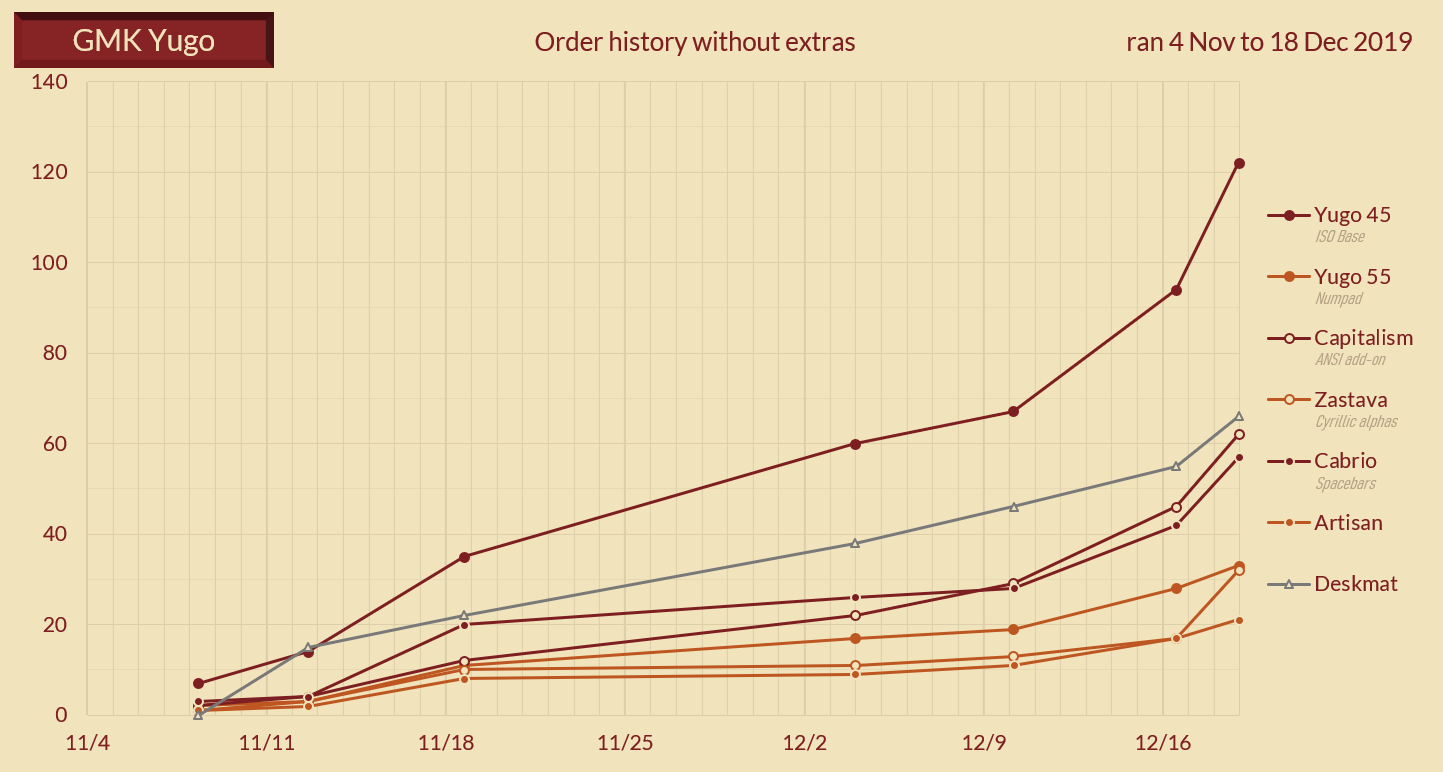
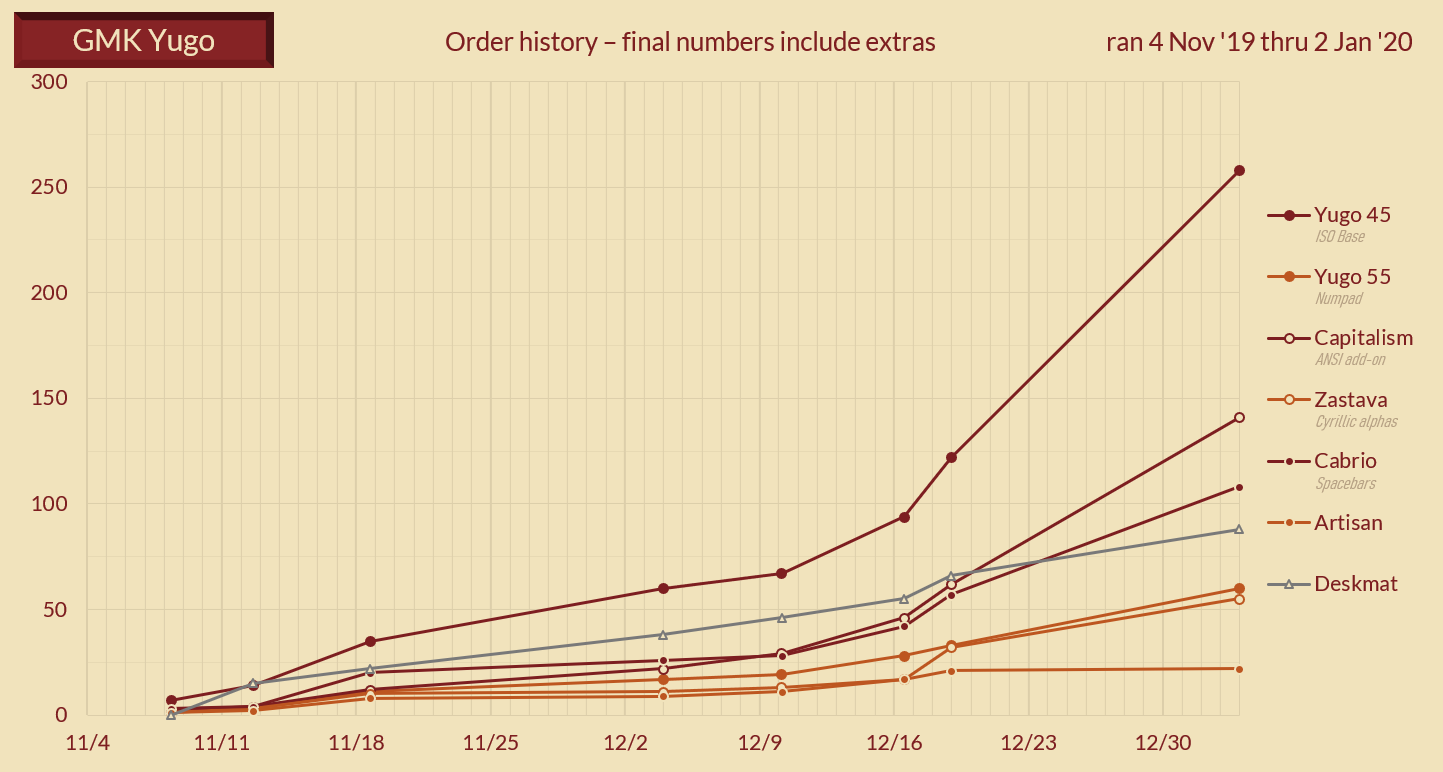
There are 3 files have been modified at 2020-01-22 01:30:40 . 	-rw-r--r-- 1 jzou ops 157288 Jan 22 01:29 assets/images/gmk-keycaps/yugo/history.png 	-rw-r--r-- 1 jzou ops 52106 Jan 22 01:27 assets/images/gmk-keycaps/yugo/order.png 	-rw-r--r-- 1 jzou ops 2431 Jan 22 01:30 docs/gmk-keycaps/Yugo.md No 

diff --git a/docs/gmk-keycaps/Yugo.md b/docs/gmk-keycaps/Yugo.md
@@ -21,34 +21,34 @@ NOTE: USD to CNY exchange rate is 7.03
 
 | Name          | Price(GH)    |  Price(CNY) | Quantity |
 | ------------- | ------------ |  ---------- | -------- |
-|[Yugo 45](#yugo-45)|119.99|843.53|122|
-|[Capitalism](#capitalism)|29.99|210.83|62|
-|[Yugo 55](#yugo-55)|49.99|351.43|33|
-|[Cabrio](#cabrio)|34.99|245.98|57|
-|[Zastava](#zastava)|59.99|421.73|32|
+|[Yugo 45](#yugo-45)|119.99|843.53|258|
+|[Capitalism](#capitalism)|29.99|210.83|141|
+|[Yugo 55](#yugo-55)|49.99|351.43|60|
+|[Cabrio](#cabrio)|34.99|245.98|108|
+|[Zastava](#zastava)|59.99|421.73|55|
 
 <img src="{{ 'assets/images/gmk-keycaps/yugo/history.png' | relative_url }}" alt="history" class="image featured">
 <img src="{{ 'assets/images/gmk-keycaps/yugo/order.png' | relative_url }}" alt="order" class="image featured">
 
 ## Kits  
 ### Yugo 45  
-**Price(GH):** 119.99    **Price(CNY):** 843.53    **Quantity:** 122  
+**Price(GH):** 119.99    **Price(CNY):** 843.53    **Quantity:** 258  
 <img src="{{ 'assets/images/gmk-keycaps/yugo/kits_pics/yugo-45.png' | relative_url }}" alt="yugo-45" class="image featured">
 
 ### Capitalism  
-**Price(GH):** 29.99    **Price(CNY):** 210.83    **Quantity:** 62  
+**Price(GH):** 29.99    **Price(CNY):** 210.83    **Quantity:** 141  
 <img src="{{ 'assets/images/gmk-keycaps/yugo/kits_pics/capitalism.png' | relative_url }}" alt="capitalism" class="image featured">
 
 ### Yugo 55  
-**Price(GH):** 49.99    **Price(CNY):** 351.43    **Quantity:** 33  
+**Price(GH):** 49.99    **Price(CNY):** 351.43    **Quantity:** 60  
 <img src="{{ 'assets/images/gmk-keycaps/yugo/kits_pics/yugo-55.png' | relative_url }}" alt="yugo-55" class="image featured">
 
 ### Cabrio  
-**Price(GH):** 34.99    **Price(CNY):** 245.98    **Quantity:** 57  
+**Price(GH):** 34.99    **Price(CNY):** 245.98    **Quantity:** 108  
 <img src="{{ 'assets/images/gmk-keycaps/yugo/kits_pics/cabrio.png' | relative_url }}" alt="cabrio" class="image featured">
 
 ### Zastava  
-**Price(GH):** 59.99    **Price(CNY):** 421.73    **Quantity:** 32  
+**Price(GH):** 59.99    **Price(CNY):** 421.73    **Quantity:** 55  
 <img src="{{ 'assets/images/gmk-keycaps/yugo/kits_pics/zastava.jpg' | relative_url }}" alt="zastava" class="image featured">
 
 
